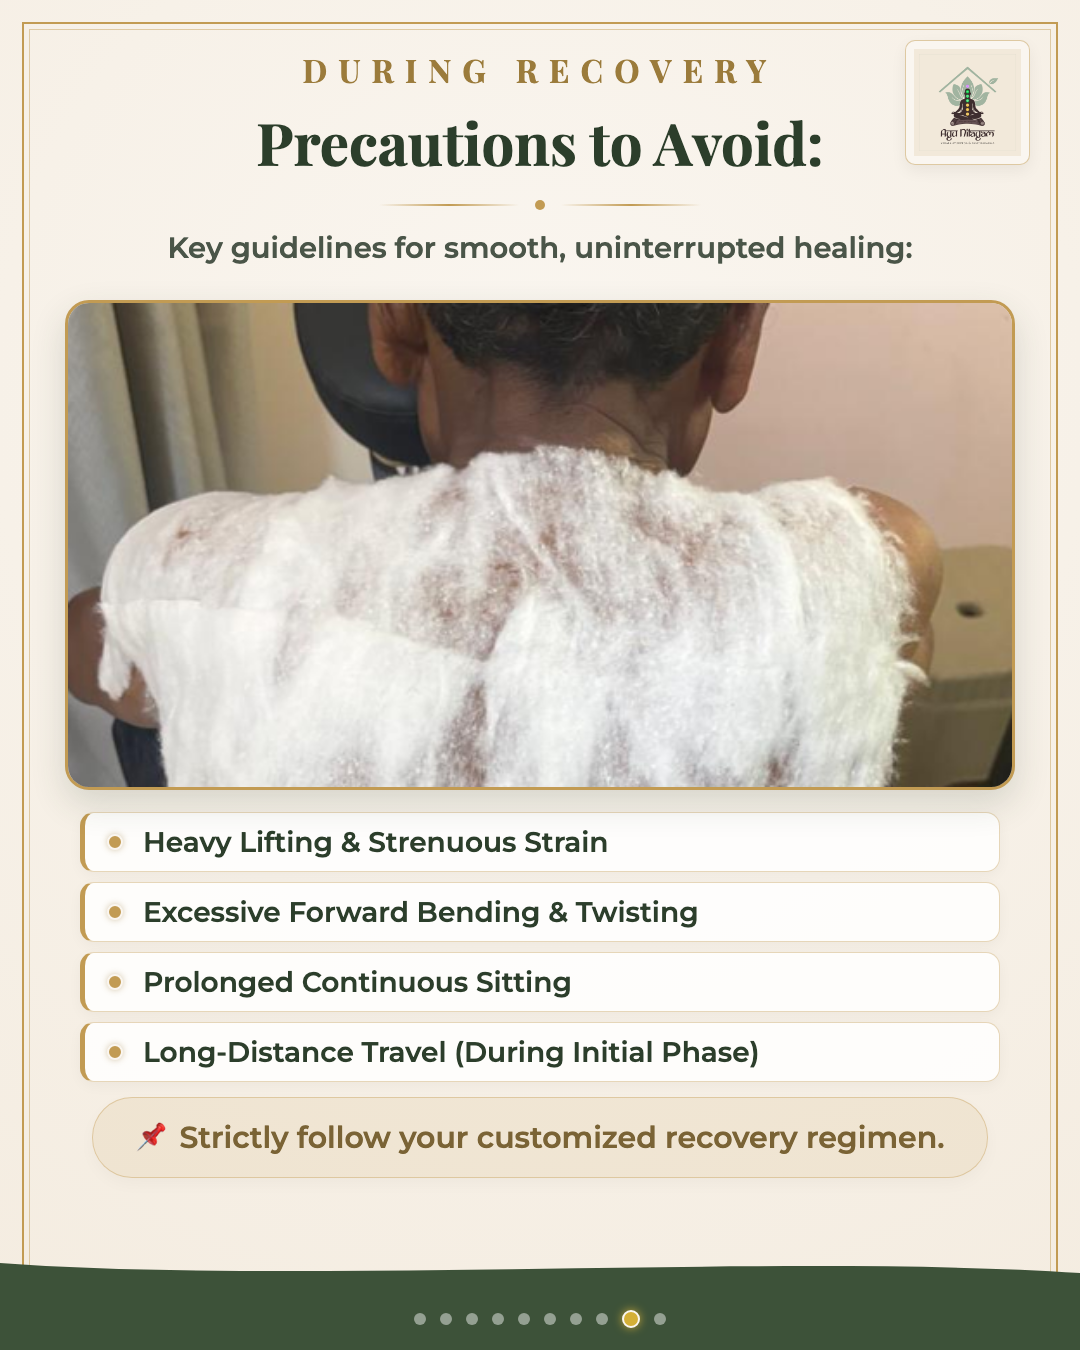
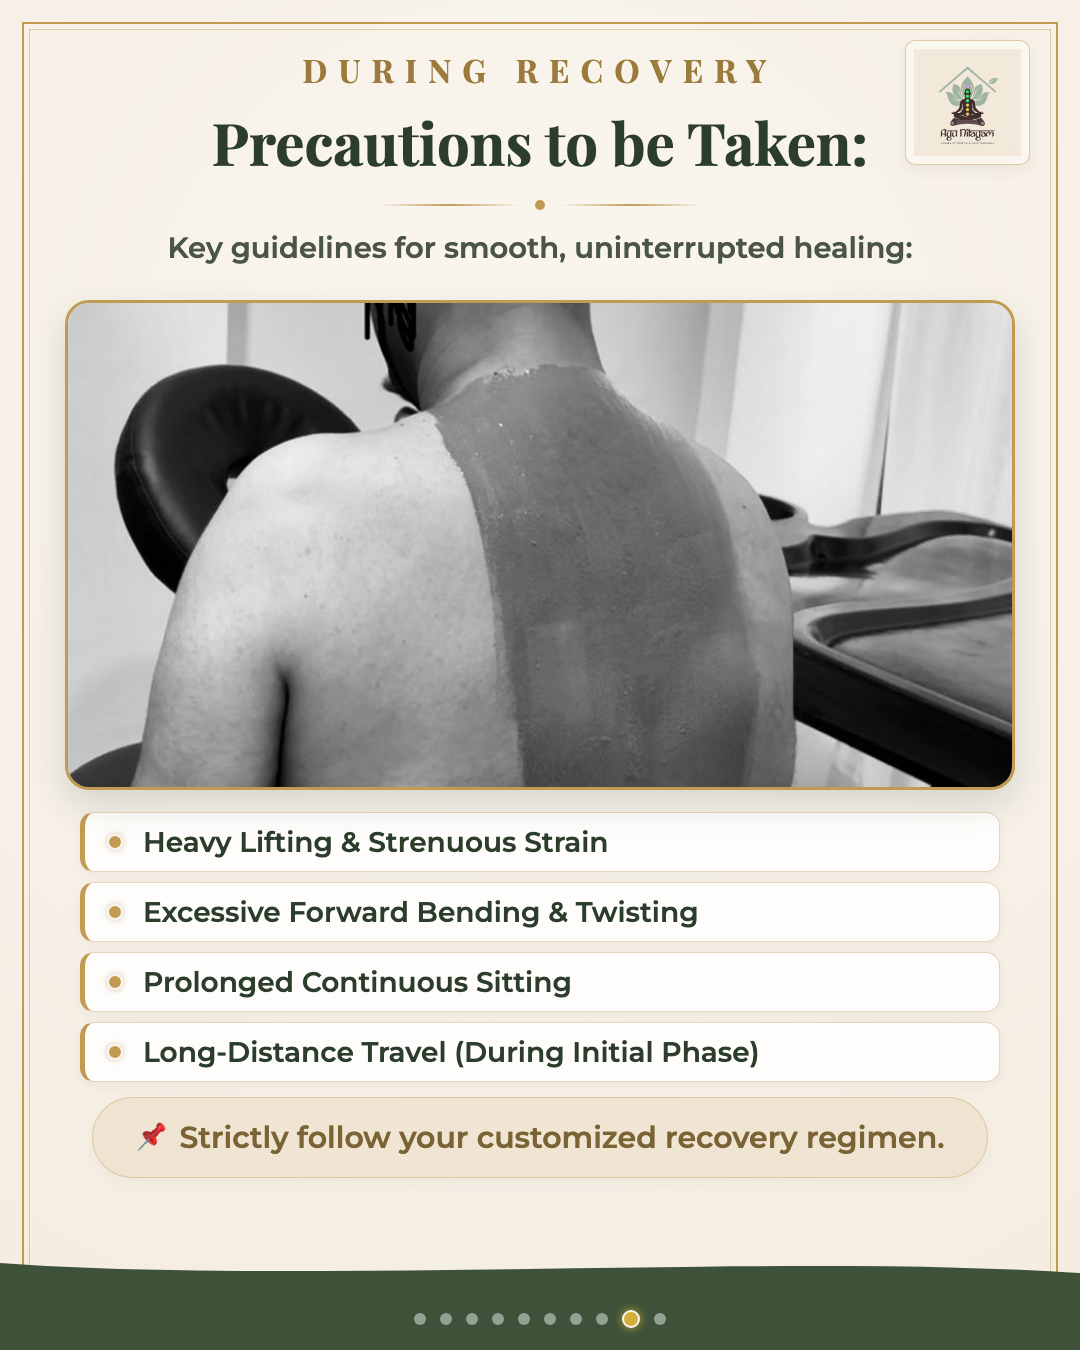
Update Slide 9: change title to Precautions to be Taken and update photo to cropped version of new_treat

Changed region(s): [[0.0611, 0.2178, 0.9472, 0.5911], [0.1833, 0.0933, 0.7944, 0.1244]]

diff --git a/html/slides.html b/html/slides.html
@@ -721,7 +721,7 @@
 
   <div class="step-header-container">
     <div class="step-tag">DURING RECOVERY</div>
-    <div class="title-wrapper"><h1 class="slide-title" style="font-size: 58px;">Precautions to Avoid:</h1></div>
+    <div class="title-wrapper"><h1 class="slide-title" style="font-size: 58px;">Precautions to be Taken:</h1></div>
     <div class="title-divider"><div class="line"></div><div class="dot"></div><div class="line"></div></div>
     <div class="subtitle-wrapper"><div class="slide-subtitle">Key guidelines for smooth, uninterrupted healing:</div></div>
   </div>
